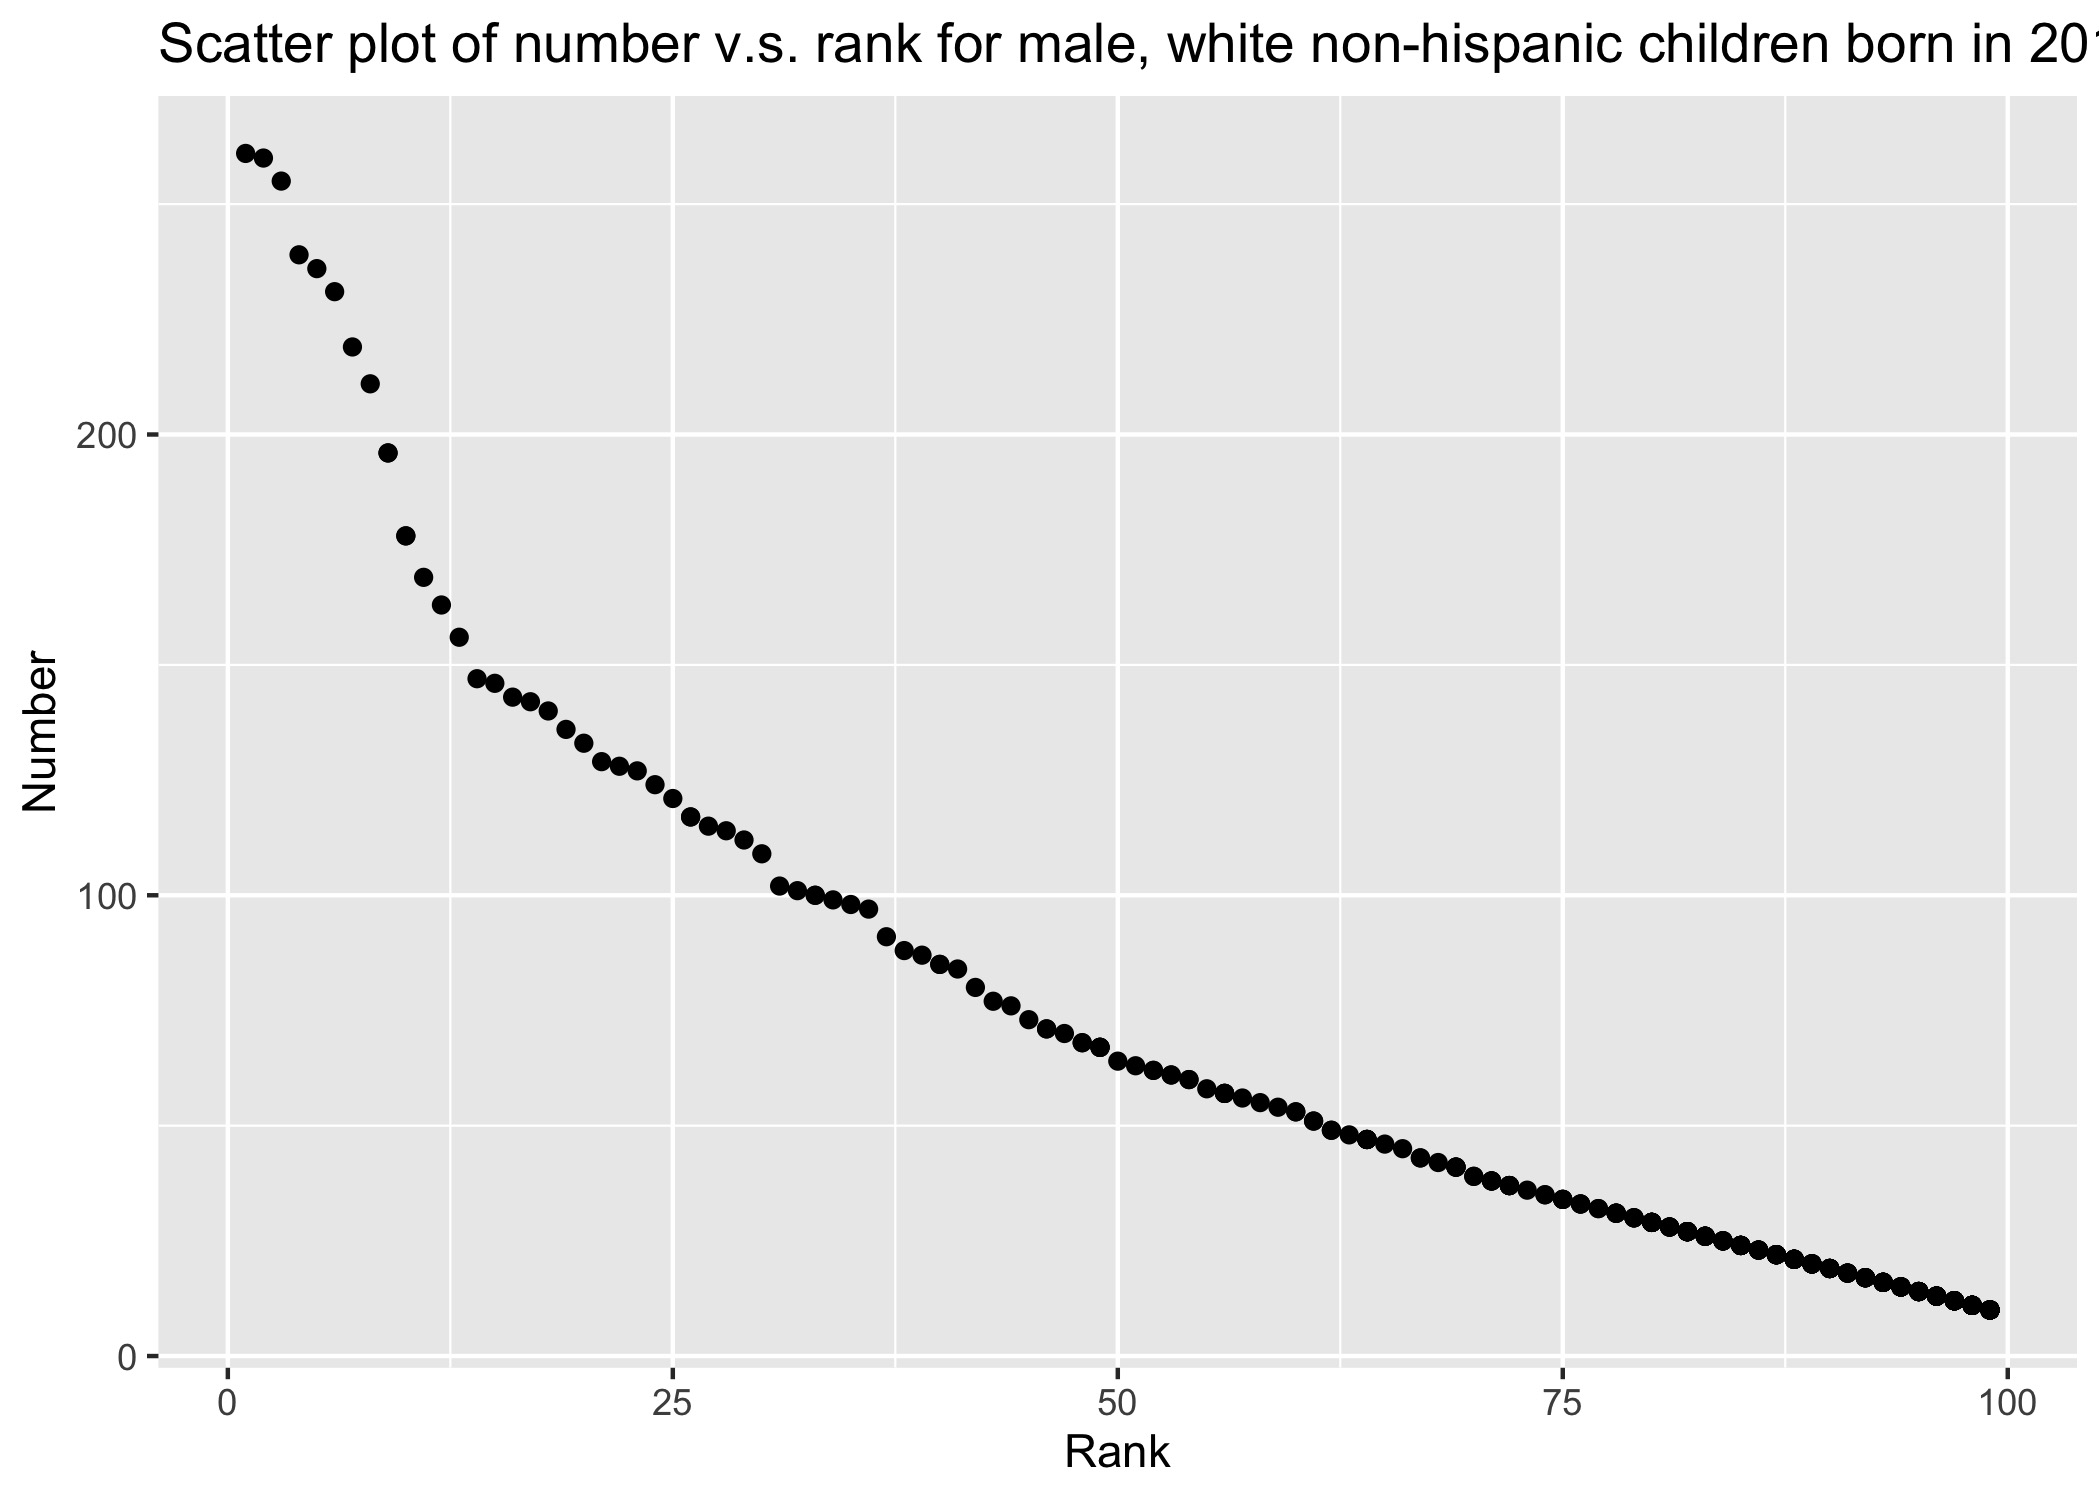
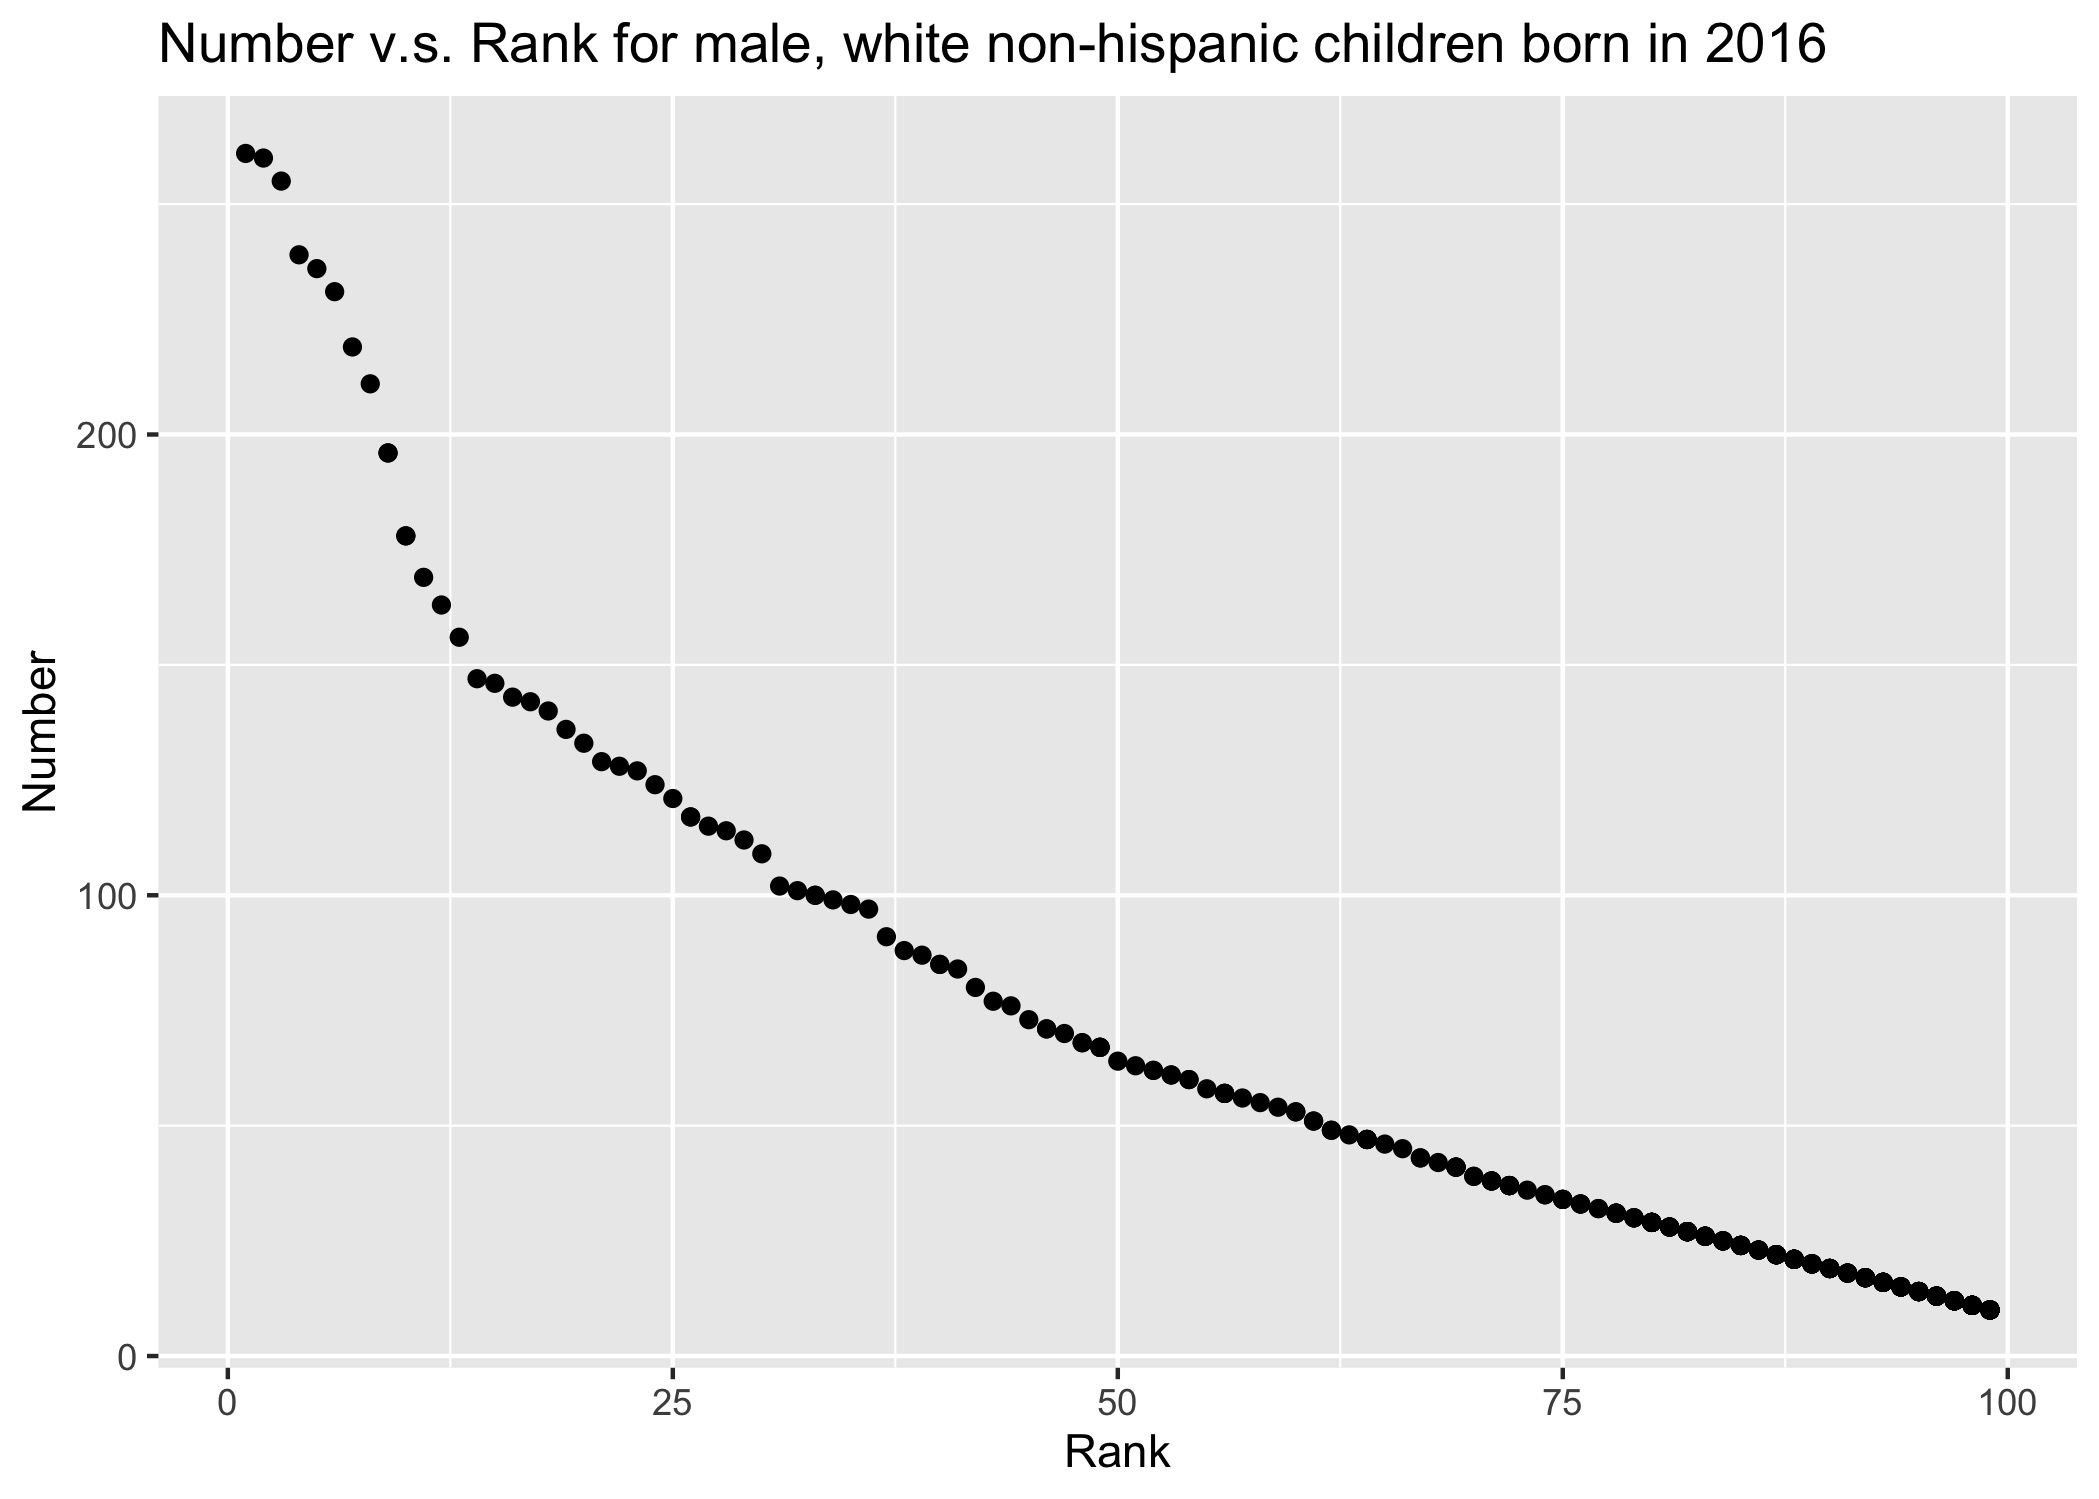
change dataset

Changed region(s): [[0.0619, 0.0, 1.0, 0.0614]]

diff --git a/p8105_hw2_sz3029.md b/p8105_hw2_sz3029.md
@@ -366,7 +366,7 @@ ggplot(male_nh, aes(x = rank, y = count)) +
   geom_point() +
   xlab("Rank") +
   ylab("Number") +
-  ggtitle("Scatter plot of number v.s. rank for male, white non-hispanic children born in 2016")
+  ggtitle("Number v.s. Rank for male, white non-hispanic children born in 2016")
 ```
 
 ![](p8105_hw2_sz3029_files/figure-gfm/plot-1.png)<!-- -->
